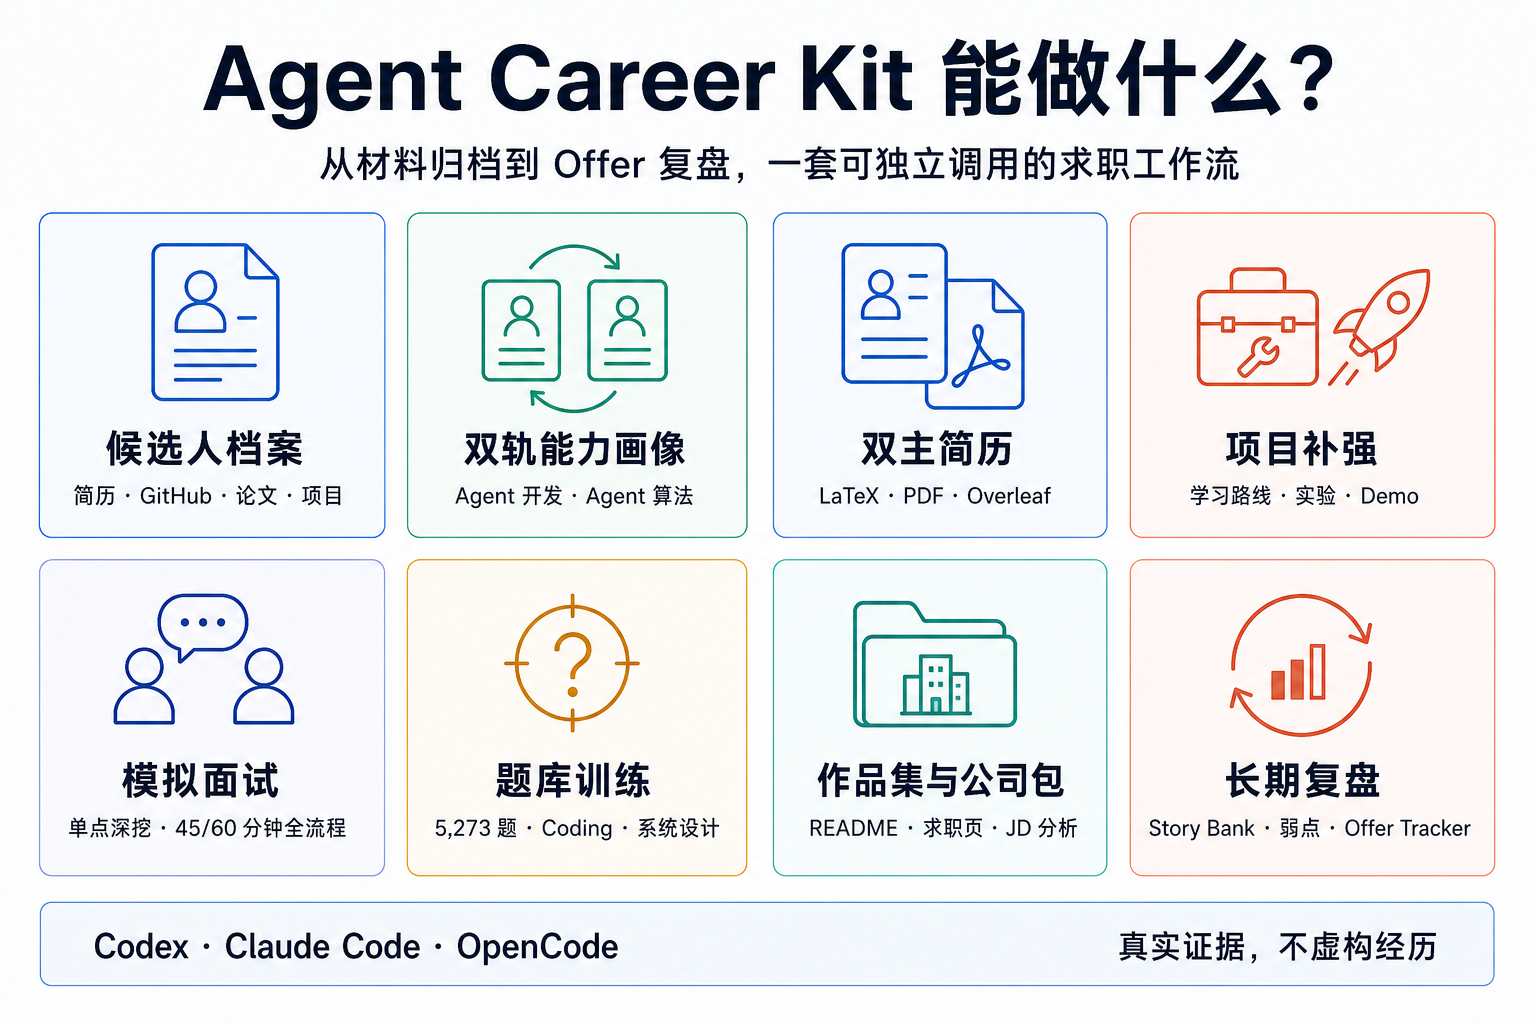
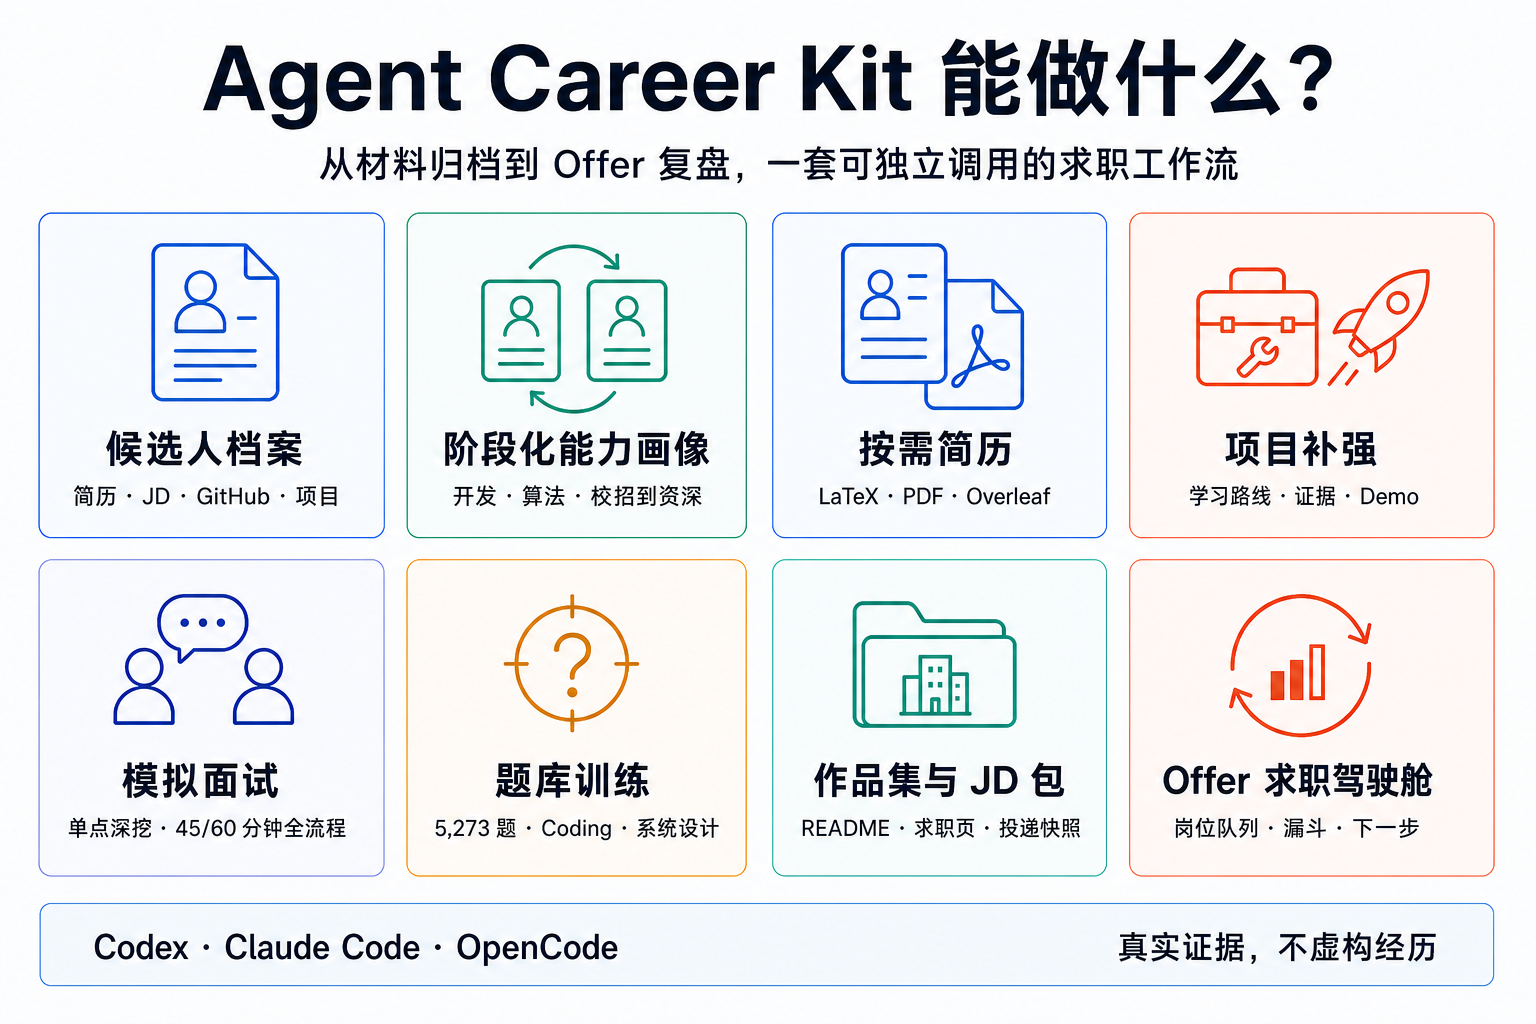
docs: refresh Agent Career Kit showcase

diff --git a/README.md b/README.md
@@ -105,14 +105,14 @@ AC 级别的论文审稿与去 AI 味 skill。
 
 ### 7. agent-career-kit
 
-面向高职级 Agent 开发与 Agent 算法岗位的全流程求职 Skill。
+面向校招、有经验和资深候选人的 Agent 开发 / Agent 算法全流程求职 Skill。
 
 ![Agent Career Kit 核心工作流](./showcase/agent-career-kit/agent-career-workflow@2x.png)
 
 ![Agent Career Kit 功能介绍](./showcase/agent-career-kit/agent-career-architecture@2x.png)
 
 <details>
-<summary>查看详细工程工作流与技能架构（SVG）</summary>
+<summary>查看旧版详细工程图（SVG，仅作补充）</summary>
 
 ![Agent Career Kit 详细工程工作流](./showcase/agent-career-kit/agent-career-workflow.svg)
 
@@ -120,24 +120,26 @@ AC 级别的论文审稿与去 AI 味 skill。
 
 </details>
 
-它维护一份带来源的候选人事实档案和两份稳定主简历，把下面这些环节串成长期闭环：
+它可以从一份简历、一个 JD、一个项目链接或一句背景介绍开始，先交付可审阅结果，再把求职推进到真实岗位与 Offer：
 
-- 原始简历、GitHub、论文与项目材料归档
-- Agent 开发 / Agent 算法能力画像
-- 严格保留指定版式的双 LaTeX、PDF 与 Overleaf 简历
+- PDF、DOCX、Markdown、HTML、JSON 与 TeX 材料自动导入
+- 校招 / 有经验 / 资深分层的岗位定位和证据画像
+- Agent 开发 / Agent 算法方向按需启用，可单方向也可双方向
+- 严格保留指定版式的 LaTeX、PDF 与 Overleaf 简历
 - 基于事实和证据的逐 bullet 简历审计
 - 项目孵化、学习路线、Coding 与系统设计训练
 - 单项目 `focus` 深挖与 45/60 分钟 `full-loop` 模拟面试
 - 内置公开面经题库、候选人私有索引、Story Bank 与弱点回写
 - GitHub README、Demo、动态个人求职页
-- 公司/JD 准备包、投递、面试和 Offer 跟踪
+- JD 要求-证据映射、独立投递快照与审阅确认
+- 中文 Offer 求职驾驶舱、真实转化漏斗与下一最佳动作
 
-它不会为每个 JD 重写一份主简历，也不虚构经历、指标、公司真题或 Offer 概率。确定性产物由脚本生成和验证；简历审计、项目计划和模拟面试由 Codex、Claude Code 或 OpenCode 按 Skill 工作流执行。
+JD 投递快照与长期候选人主档案分离，投递定向不会直接污染事实源。它不虚构经历、指标、公司真题或 Offer 概率。确定性产物由脚本生成和验证；简历审计、项目计划和模拟面试由 Codex、Claude Code 或 OpenCode 按 Skill 工作流执行。
 
 使用说明与单模块调用示例见：
 [agent-career-kit/README.md](./agent-career-kit/README.md)
 
-公开展示案例来自指定的 LLM-Resume-Template 模板，仅用于展示 Skill 生成效果，不代表真实候选人或求职结果。当前公开案例用于验证双视图机制，但两份 PDF 的经历主体仍高度重合，不应将其解读为已经完成理想的岗位差异化：
+公开展示案例来自指定的 LLM-Resume-Template 模板，仅用于展示 Skill 生成效果，不代表真实候选人或求职结果。当前案例同时启用了开发与算法两个方向，用于展示双视图；真实用户可以只启用其中一个方向：
 
 - [Agent 开发版 PDF](./showcase/agent-career-kit/resumes/development/main.pdf)
 - [Agent 算法版 PDF](./showcase/agent-career-kit/resumes/algorithm/main.pdf)
@@ -150,8 +152,6 @@ AC 级别的论文审稿与去 AI 味 skill。
 | 动态求职页 | 移动端项目详情 |
 | --- | --- |
 | ![动态求职页公开模板演示](./showcase/agent-career-kit/qa/portfolio-desktop.png) | ![移动端项目详情公开模板演示](./showcase/agent-career-kit/qa/portfolio-mobile-detail.png) |
-
-![投递面试 Offer 跟踪看板公开演示](./showcase/agent-career-kit/qa/tracker-summary.png)
 
 以上经历和指标来自公开模板 fixture，所有对外产物都带有 Demo 声明；真实使用必须换成候选人自己的来源和证据。
 

diff --git a/image-cards/agent-career-kit/prompts/02-introduction.md b/image-cards/agent-career-kit/prompts/02-introduction.md
@@ -1,34 +1,44 @@
-Create a bright, polished product capability infographic for a GitHub README. Explain what the developer Skill “Agent Career Kit” can do. Use simplified Chinese exactly as provided. All Chinese text must be legible and correctly spelled.
+Edit the provided Agent Career Kit capability infographic in place. This is a surgical text update, not a redesign.
 
-Canvas and style:
-- 1536 x 1024 landscape, light warm-white background (#FAFBFD).
-- Dark navy text (#172033), high contrast.
-- Flat editorial infographic with crisp vector-like shapes and familiar line icons.
-- Balanced palette: blue (#2F6FED), mint (#22A87A), coral (#E86F51), amber (#D89B16), with very pale tinted card backgrounds.
-- Cards have at most 6px corner radius, thin borders, no heavy shadows.
-- No dark theme, gradient, 3D, glassmorphism, decorative blob, watermark, fake UI screenshot, or extra copy.
+Preserve exactly:
+- 1536 x 1024 landscape canvas.
+- Existing near-white background, navy typography, blue/green/coral/amber palette.
+- Existing title and subtitle positions.
+- Existing 4-column by 2-row grid with eight equal cards.
+- Every existing line icon, card size, border, spacing, typography hierarchy, and bottom foundation bar.
+- Do not add cards, move elements, change colors, redraw icons, or invent copy.
 
-Header:
-- Large title: “Agent Career Kit 能做什么？”
-- Subtitle: “从材料归档到 Offer 复盘，一套可独立调用的求职工作流”
+Replace only the specified text. Use simplified Chinese exactly as written:
 
-Center: eight equal capability cards in a clean 4-column by 2-row grid. Each card has one simple line icon, one bold title, and one compact description. Use these exact texts:
+Title remains: “Agent Career Kit 能做什么？”
+Subtitle: “从材料归档到 Offer 复盘，一套可独立调用的求职工作流”
 
-1. “候选人档案” — “简历 · GitHub · 论文 · 项目”
-2. “双轨能力画像” — “Agent 开发 · Agent 算法”
-3. “双主简历” — “LaTeX · PDF · Overleaf”
-4. “项目补强” — “学习路线 · 实验 · Demo”
-5. “模拟面试” — “单点深挖 · 45/60 分钟全流程”
-6. “题库训练” — “5,273 题 · Coding · 系统设计”
-7. “作品集与公司包” — “README · 求职页 · JD 分析”
-8. “长期复盘” — “Story Bank · 弱点 · Offer Tracker”
+Card 1 title: “候选人档案”
+Card 1 description: “简历 · JD · GitHub · 项目”
 
-Bottom foundation bar:
-- Left: “Codex · Claude Code · OpenCode”
-- Right: “真实证据，不虚构经历”
+Card 2 title: “阶段化能力画像”
+Card 2 description: “开发 · 算法 · 校招到资深”
 
-Composition constraints:
-- Make all eight cards equal in size and importance.
-- Use clear hierarchy and generous whitespace.
-- Text must remain readable when displayed at 900px width.
-- Preserve every supplied phrase exactly and add no other wording.
+Card 3 title: “按需简历”
+Card 3 description: “LaTeX · PDF · Overleaf”
+
+Card 4 title remains: “项目补强”
+Card 4 description: “学习路线 · 证据 · Demo”
+
+Card 5 title remains: “模拟面试”
+Card 5 description remains: “单点深挖 · 45/60 分钟全流程”
+
+Card 6 title remains: “题库训练”
+Card 6 description remains: “5,273 题 · Coding · 系统设计”
+
+Card 7 title: “作品集与 JD 包”
+Card 7 description: “README · 求职页 · 投递快照”
+
+Card 8 title: “Offer 求职驾驶舱”
+Card 8 description: “岗位队列 · 漏斗 · 下一步”
+
+Bottom foundation bar remains:
+Left: “Codex · Claude Code · OpenCode”
+Right: “真实证据，不虚构经历”
+
+All supplied text must be correctly spelled, high contrast, and legible at 900px display width. Remove the old text completely; do not leave doubled or ghosted labels.

diff --git a/image-cards/agent-career-kit/prompts/01-workflow.md b/image-cards/agent-career-kit/prompts/01-workflow.md
@@ -1,38 +1,34 @@
-Create a polished, light-background editorial infographic for a GitHub README. It is a clean horizontal workflow diagram for a developer tool named Agent Career Kit. Use simplified Chinese exactly as provided. All text must be legible, correctly spelled, and rendered in professional modern sans-serif typography.
+Edit the provided Agent Career Kit workflow infographic in place. This is a surgical text update, not a redesign.
 
-Canvas and style:
-- 1536 x 1024 landscape with generous margins and whitespace.
-- Very light cool-gray background (#F7F9FC), nearly white.
-- Dark navy text (#172033), strong contrast.
-- Flat 2D vector-like infographic, crisp lines, no gradients, no heavy shadows.
-- Palette: clear blue (#2F6FED), mint green (#22A87A), pale blue (#E8F1FF), pale mint (#E6F7F1), pale warm yellow (#FFF3CF).
-- No dark background, neon, 3D, glassmorphism, decorative illustration, tiny text, logo, watermark, or extra copy.
+Preserve exactly:
+- 1536 x 1024 landscape canvas.
+- Existing near-white background, navy typography, blue/green/yellow palette.
+- Existing title position and size.
+- Existing horizontal workflow composition: nodes 1, 2, 3; split into 4A and 4B; merge to node 5; then nodes 6 and 7; yellow feedback arrow back to node 3.
+- Existing card sizes, line icons, arrows, spacing, typography hierarchy, bottom strip, border radii, and generous whitespace.
+- Do not add cards, move elements, change colors, redraw icons, or invent copy.
 
-Top:
-- Large title: “Agent Career Kit 核心工作流”
-- Subtitle: “一份事实档案，贯穿 Agent 开发 / Agent 算法求职全流程”
+Replace only the specified text. Use simplified Chinese exactly as written:
 
-Main diagram: use large rounded rectangles with small 6px corner radii, numbered circular markers, and clear directional arrows. Arrange the first three nodes left to right:
-1. “导入候选人材料”
-2. “建立个人主档案”
-3. “开发 / 算法能力画像”
+Title remains: “Agent Career Kit 核心工作流”
+Subtitle remains: “一份事实档案，贯穿 Agent 开发 / Agent 算法求职全流程”
 
-From node 3, split into two parallel cards:
-4A. “双简历 PDF” with subline “Agent 开发版 · Agent 算法版”
-4B. “项目与学习补强” with subline “项目证据 · Coding · 系统设计”
+Node 1 title: “任意材料冷启动”
+Node 2 title: “建立个人主档案”
+Node 3 title: “开发 / 算法能力画像”
 
-Merge both branches into:
-5. “作品集与投递”
-6. “Coding 与模拟面试”
-7. “面后复盘”
+Node 4A title: “按需简历 PDF”
+Node 4A subline: “Agent 开发版 · Agent 算法版”
 
-Draw one warm-yellow feedback arrow from “面后复盘” back to “开发 / 算法能力画像”. Keep arrow crossings at zero and spacing generous.
+Node 4B title remains: “项目与学习补强”
+Node 4B subline remains: “项目证据 · Coding · 系统设计”
 
-Bottom principle strip:
-“稳定双简历” | “不按单个 JD 改写” | “复盘持续回写”
+Node 5 title: “JD 快照与作品集”
+Node 6 title remains: “Coding 与模拟面试”
+Node 7 title: “Offer 驾驶舱与复盘”
 
-Text constraints:
-- Preserve every supplied phrase exactly.
-- Do not invent additional labels.
-- Use large text readable when displayed at 900px width.
-- Avoid dense paragraphs.
+Bottom strip, left: “主档案长期稳定”
+Bottom strip, center: “JD 快照独立”
+Bottom strip, right: “复盘持续回写”
+
+All supplied text must be correctly spelled, high contrast, and legible at 900px display width. Remove the old text completely; do not leave doubled or ghosted labels.

diff --git a/image-cards/agent-career-kit/analysis.md b/image-cards/agent-career-kit/analysis.md
@@ -2,17 +2,31 @@
 
 ## 目标与受众
 
-把原有深色工程图改成明亮、可扫读的产品介绍图，面向首次在 GitHub 了解本 Skill 的 Agent 开发与 Agent 算法候选人。
+在原有两张浅色产品图基础上做增量更新。保留原图已经验证过的横向流程、4×2 卡片、图标、配色和信息层级，只替换与当前版本冲突的文案。
+
+## 当前版本重点
+
+- 任意一份简历、JD、项目或一句背景即可冷启动。
+- 一份带来源候选人档案，按校招、有经验、资深分层判断证据。
+- Agent 开发与 Agent 算法方向按需启用，可单方向也可双方向。
+- JD 使用独立投递快照，不直接污染长期主档案。
+- 用 `career-state.json`、转化漏斗和下一最佳动作驱动 Offer 求职驾驶舱。
 
 ## 视觉策略
 
-- 浅灰白背景，深色正文，高对比度。
-- 蓝、青绿为主强调色，少量暖黄表示反馈闭环。
-- 扁平二维信息图，不使用深色大底、霓虹、3D、复杂纹理或渐变。
-- 卡片边界清楚，留白充足，箭头粗细一致。
+- 原图布局、图标、配色、卡片尺寸、箭头关系全部保留。
+- 仅替换必要文字，不重新设计结构。
 - 中文必须完整、清晰，不添加提示词之外的文案。
 
 ## 两张图的分工
 
-1. 流程图：材料进入事实档案，形成双简历、项目训练、作品集与面试，再通过复盘回写。
-2. 介绍图：八个可独立调用的核心能力、双岗位方向、跨客户端支持和事实约束。
+1. 流程图：保留 1→2→3、4A/4B 分支、5→6→7 和反馈回写；在原位置补充按需简历、JD 快照与 Offer 驾驶舱。
+2. 介绍图：保留八张等大能力卡，只更新阶段化画像、按需简历、JD 投递包和 Offer 驾驶舱。
+
+## 禁止出现
+
+- 改变原图布局、图标、配色、卡片尺寸或箭头关系。
+- 固定“双主简历”。
+- “不按单个 JD 改写”这类会掩盖独立投递快照的旧表述。
+- CSV、XLSX、Offer Tracker 旧架构。
+- 虚构功能、求职结果或 Offer 保证。

diff --git a/image-cards/agent-career-kit/outline.md b/image-cards/agent-career-kit/outline.md
@@ -1,17 +1,16 @@
 # 配图大纲
 
-## 01 核心工作流
+## 01 原布局上的当前核心工作流
 
-- 导入候选人材料 → 建立个人主档案 → 开发 / 算法能力画像。
-- 并行分支：双简历 PDF；项目与学习补强。
-- 汇合：作品集与投递 → Coding 与模拟面试 → 面后复盘。
-- 面后复盘回写能力画像。
-- 原则：稳定双简历、不按单个 JD 改写、复盘持续回写。
+- 任意材料冷启动 → 建立个人主档案 → 开发 / 算法能力画像。
+- 并行分支：按需简历 PDF；项目与学习补强。
+- 汇合：JD 快照与作品集 → Coding 与模拟面试 → Offer 驾驶舱与复盘。
+- Offer 驾驶舱与复盘回写能力画像。
+- 原则：主档案长期稳定、JD 快照独立、复盘持续回写。
 
-## 02 功能介绍
+## 02 原布局上的当前功能介绍
 
-- 候选人档案、双轨能力画像、双主简历、项目补强。
-- 模拟面试、题库训练、作品集与公司包、长期复盘。
+- 候选人档案、阶段化能力画像、按需简历、项目补强。
+- 模拟面试、题库训练、作品集与 JD 包、Offer 求职驾驶舱。
 - 支持 Codex、Claude Code、OpenCode。
-- 内置 5,273 题公开面试题库。
 - 真实证据，不虚构经历。

diff --git a/showcase/agent-career-kit/README.md b/showcase/agent-career-kit/README.md
@@ -6,6 +6,6 @@ The resume layout and template case are derived from [adongwanai/LLM-Resume-Temp
 
 The included experiences, education, publications, companies, awards and metrics demonstrate rendering and workflow behavior only. Replace all of them with candidate-owned evidence before real use.
 
-`agent-career-workflow@2x.png` and `agent-career-architecture@2x.png` are the light-background GPT Image 2 workflow and capability diagrams used as the main README visuals. Their source analysis, outline, and prompts live under `../../image-cards/agent-career-kit/`.
+`agent-career-workflow@2x.png` and `agent-career-architecture@2x.png` are the current light-background GPT Image 2 workflow and capability diagrams used as the main README visuals. Their source analysis, outline, and prompts live under `../../image-cards/agent-career-kit/`.
 
-`agent-career-workflow.svg` and `agent-career-architecture.svg` remain available as detailed engineering supplements.
+The previous generated PNGs remain as `agent-career-workflow-legacy@2x.png` and `agent-career-architecture-legacy@2x.png`. `agent-career-workflow.svg` and `agent-career-architecture.svg` remain available as historical detailed engineering supplements; the two current PNGs are the authoritative product overview.

diff --git a/image-cards/agent-career-kit/source.md b/image-cards/agent-career-kit/source.md
@@ -1,10 +1,5 @@
-# Agent Career Kit 配图重制
+# Agent Career Kit 配图更新
 
-为开源仓库生成两张浅色、易读的中文介绍图，替换当前过暗的工作流图和技能架构图。
+Agent Career Kit 面向校招、有经验和资深的 Agent 开发 / Agent 算法候选人。它能从任意有效材料冷启动，维护一份带来源的长期档案，按需启用一个或两个简历方向，生成独立 JD 投递快照，执行项目与面试训练，并通过中文 Offer 求职驾驶舱持续推进真实岗位。
 
-两张图分别表达：
-
-1. Agent Career Kit 的长期求职闭环。
-2. Agent Career Kit 可以独立调用的核心能力。
-
-图片用于 GitHub README，必须在缩放后仍能快速理解。不得修改简历模板、简历内容或候选人事实。
+本次只更新开源仓库展示，不修改 Skill 执行逻辑、简历模板或候选人事实。
